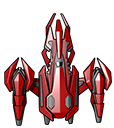
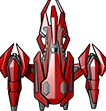
Shield moving along the player

diff --git a/DoubleWings/src/scenes/stages/stage1/Shield.java b/DoubleWings/src/scenes/stages/stage1/Shield.java
@@ -10,14 +10,29 @@ public class Shield extends Sprite{
 	private int regeneration;
 	// private Sprite shield;
 
-	public Shield(){
+	private Sprite player;
+
+	public Shield(Sprite player){
 
 		super("src/assets/img/temp_shield.png");
 
+		this.player = player;
+
 		//Putting shield on the screen
-		this.x = WindowConstants.WIDTH/2 - this.width/2;
-		this.y = WindowConstants.HEIGHT - this.height;
-		
+		this.x = player.x;
+		this.y = player.y;
+
+	}
+
+	public void update(){
+
+		//Shield movement
+		Integer horizontalCorrection = (this.width - player.width)/2;
+		Integer verticalCorrection = (this.height - player.height)/2;
+
+		this.x = player.x - horizontalCorrection;
+		this.y = player.y - verticalCorrection;
+
 	}
 
 }

diff --git a/DoubleWings/src/scenes/stages/stage1/StageTest.java b/DoubleWings/src/scenes/stages/stage1/StageTest.java
@@ -10,6 +10,7 @@ public class StageTest extends GameScene {
 
 	private Sprite player;
 	private GameImage background;
+	private Shield shield;
 
 	public void initialSetup(){
 
@@ -23,9 +24,9 @@ public class StageTest extends GameScene {
 		player.x = WindowConstants.WIDTH/2 - player.width/2;
 		player.y = WindowConstants.HEIGHT - player.height;
 
+		shield = new Shield(player);
+		
 	}
-
-	Shield shield = new Shield();
 
 	public void update(){
 
@@ -37,5 +38,8 @@ public class StageTest extends GameScene {
 		//Player movement
 		player.moveX(Keyboard.LEFT_KEY, Keyboard.RIGHT_KEY, 4);//velocity = 1
 		player.moveY(Keyboard.UP_KEY, Keyboard.DOWN_KEY, 4);//velocity = 1
+		
+		shield.update();
+
 	}
 }
